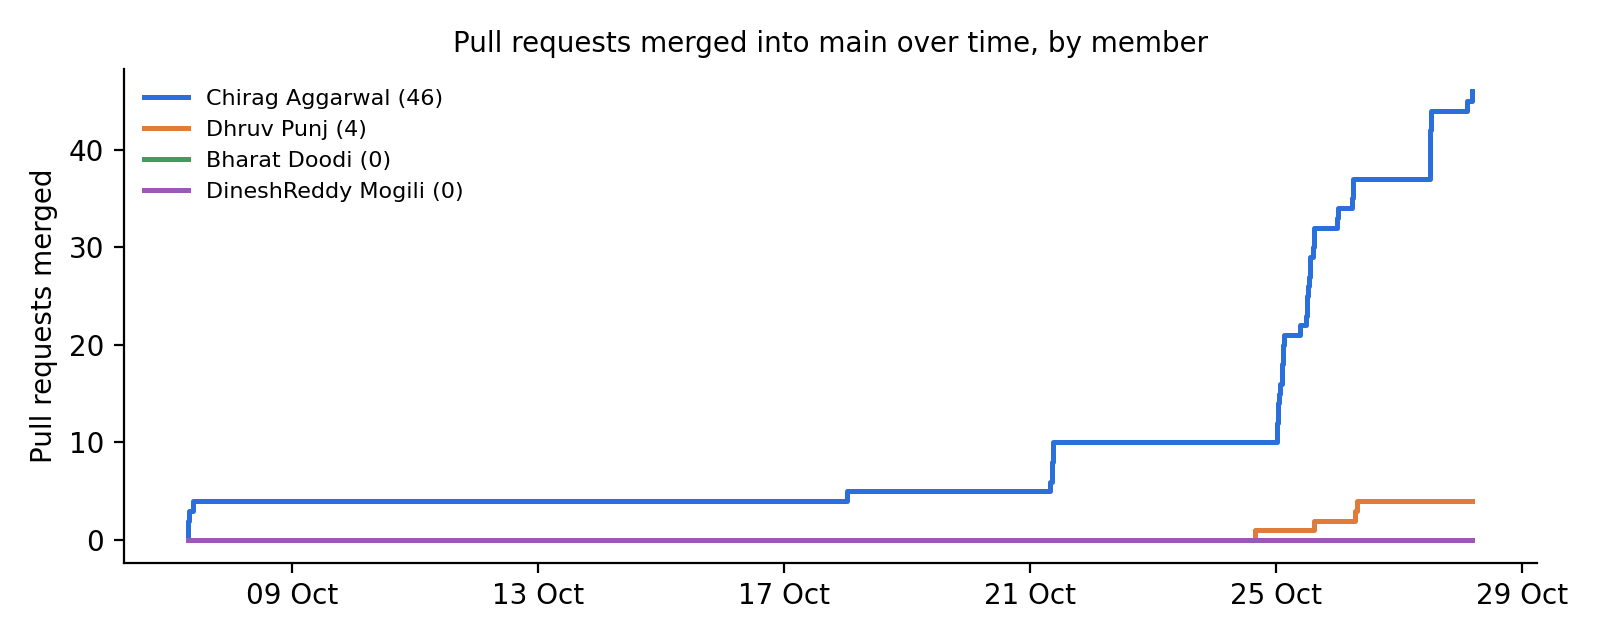
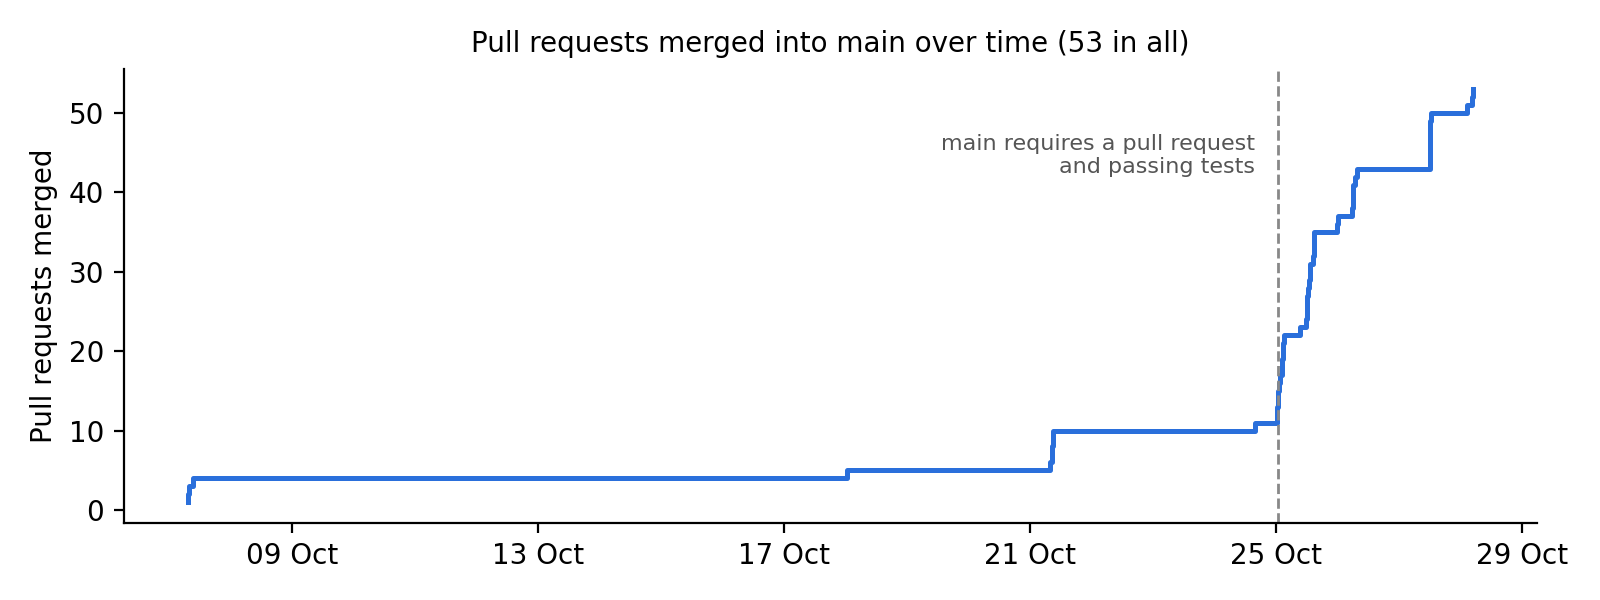
docs(report): show version control use at team level, not split by member
The spec asks for visualisations that show use of version control, not who did what; each member covers their part
in the reflection.

diff --git a/report/version-control/charts.py b/report/version-control/charts.py
@@ -3,9 +3,8 @@
 # dependencies = ["matplotlib==3.10.7"]
 # ///
 """
-Draws the two version control charts in §8 from the git history of main: commits per week by member
-(contributors.png) and pull requests merged into main over time, by member
-(pulls.png). A pull request counts for the member who wrote most of its commits.
+Draws the two version control charts in §8 from the git history of main: commits per week (commits.png) and pull
+requests merged into main over time (pulls.png), with the day main started to require a pull request and passing tests.
 
 Run from the repository root: uv run report/version-control/charts.py
 """
@@ -22,100 +21,59 @@ import matplotlib.dates as dates
 import matplotlib.pyplot as pyplot
 
 HERE = Path(__file__).parent
+COLOUR = '#2a6fdb'
 
-# Each member's git e-mail addresses, as they appear in the history
-MEMBERS = {
-    'Chirag Aggarwal': ['chiragaggarwal5k@gmail.com'],
-    'Dhruv Punj': ['dpunj810@gmail.com', '124335534+DHRUVx22@users.noreply.github.com'],
-    'Bharat Doodi': ['107737002+AKABharat@users.noreply.github.com'],
-    'DineshReddy Mogili': [],
-}
-COLOURS = {
-    'Chirag Aggarwal': '#2a6fdb',
-    'Dhruv Punj': '#e07b39',
-    'Bharat Doodi': '#3a9e5c',
-    'DineshReddy Mogili': '#9b59b6',
-}
+# The day the ruleset on main started requiring a pull request and the three test jobs
+PROTECTED = datetime.fromisoformat('2026-10-25T07:35:17+00:00')
 
 
 def git(*arguments: str) -> str:
     return subprocess.run(['git', *arguments], check=True, capture_output=True, text=True).stdout
 
 
-def member(email: str) -> str | None:
-    for name, emails in MEMBERS.items():
-        if email in emails:
-            return name
-    return None
+def monday(day: date) -> date:
+    return day - timedelta(days=day.weekday())
 
 
-def commits(revisions: str) -> list[tuple[datetime, str]]:
-    found = []
-    for line in git('log', revisions, '--no-merges', '--format=%aI %ae').splitlines():
-        moment, email = line.split(' ', 1)
-        name = member(email)
-        if name:
-            found.append((datetime.fromisoformat(moment), name))
-    return found
-
-
-def monday(moment: datetime) -> date:
-    return moment.date() - timedelta(days=moment.weekday())
-
-
-def contributors() -> None:
-    history = commits('origin/main')
-    first = monday(min(day for day, _ in history))
-    last = monday(max(day for day, _ in history))
+def commits() -> None:
+    days = [date.fromisoformat(day) for day in git('log', 'origin/main', '--no-merges', '--format=%as').split()]
+    first = monday(min(days))
+    last = monday(max(days))
     weeks = [first + timedelta(weeks=index) for index in range((last - first).days // 7 + 1)]
-    counts = Counter((monday(day), name) for day, name in history)
-    totals = Counter(name for _, name in history)
+    counts = Counter(monday(day) for day in days)
 
-    figure, axes = pyplot.subplots(figsize=(8, 3.2))
-    bottom = [0] * len(weeks)
-    for name in MEMBERS:
-        heights = [counts[(week, name)] for week in weeks]
-        axes.bar(weeks, heights, width=5, bottom=bottom, color=COLOURS[name], label=f'{name} ({totals[name]})')
-        bottom = [low + height for low, height in zip(bottom, heights)]
+    figure, axes = pyplot.subplots(figsize=(8, 3))
+    axes.bar(weeks, [counts[week] for week in weeks], width=5, color=COLOUR)
     axes.set_ylabel('Commits')
-    axes.set_title('Commits to main per week, by member (merge commits left out)', fontsize=10)
+    axes.set_title(f'Commits to main per week ({len(days)} in all, merge commits left out)', fontsize=10)
     axes.set_xticks(weeks)
     axes.xaxis.set_major_formatter(dates.DateFormatter('%d %b'))
-    axes.legend(frameon=False, fontsize=8)
     axes.spines[['top', 'right']].set_visible(False)
     figure.tight_layout()
-    figure.savefig(HERE / 'contributors.png', dpi=200)
+    figure.savefig(HERE / 'commits.png', dpi=200)
 
 
 def pulls() -> None:
-    merged: dict[str, list[datetime]] = {name: [] for name in MEMBERS}
-    for line in git('log', 'origin/main', '--first-parent', '--reverse', '--format=%H %cI %P|%ae|%s').splitlines():
-        head, email, subject = line.split('|', 2)
-        commit, moment, *parents = head.split()
-        if len(parents) > 1:
-            branch = commits(f'{commit}^1..{commit}^2')
-            pull = subject.startswith('Merge pull request #') and branch
-            author = Counter(name for _, name in branch).most_common(1)[0][0] if pull else None
-        else:
-            # A squash merge is one commit on main whose subject ends in the pull request's number, e.g. (#27)
-            author = member(email) if re.search(r'\(#\d+\)$', subject) else None
-        if author:
-            merged[author].append(datetime.fromisoformat(moment))
-    first = min(moment for moments in merged.values() for moment in moments)
-    last = max(moment for moments in merged.values() for moment in moments)
+    merged = []
+    for line in git('log', 'origin/main', '--first-parent', '--reverse', '--format=%cI %P|%s').splitlines():
+        head, subject = line.split('|', 1)
+        moment, *parents = head.split()
+        # A merge commit names its pull request; a squash merge ends in its number, e.g. (#27)
+        if subject.startswith('Merge pull request #') or (len(parents) == 1 and re.search(r'\(#\d+\)$', subject)):
+            merged.append(datetime.fromisoformat(moment))
 
-    figure, axes = pyplot.subplots(figsize=(8, 3.2))
-    for name, moments in merged.items():
-        axes.step([first, *moments, last], [0, *range(1, len(moments) + 1), len(moments)], where='post',
-                  color=COLOURS[name], linewidth=1.8, label=f'{name} ({len(moments)})')
+    figure, axes = pyplot.subplots(figsize=(8, 3))
+    axes.step(merged, range(1, len(merged) + 1), where='post', color=COLOUR, linewidth=1.8)
+    axes.axvline(PROTECTED, color='#888888', linestyle='--', linewidth=1)
+    axes.annotate('main requires a pull request\nand passing tests', (PROTECTED, len(merged) * 0.8),
+                  xytext=(-8, 0), textcoords='offset points', ha='right', fontsize=8, color='#555555')
     axes.set_ylabel('Pull requests merged')
-    axes.set_title('Pull requests merged into main over time, by member', fontsize=10)
+    axes.set_title(f'Pull requests merged into main over time ({len(merged)} in all)', fontsize=10)
     axes.xaxis.set_major_formatter(dates.DateFormatter('%d %b'))
-    axes.legend(frameon=False, fontsize=8, loc='upper left')
     axes.spines[['top', 'right']].set_visible(False)
     figure.tight_layout()
     figure.savefig(HERE / 'pulls.png', dpi=200)
 
 
-contributors()
+commits()
 pulls()

diff --git a/report/sections/08-code.md b/report/sections/08-code.md
@@ -153,14 +153,13 @@ Table: Automated tests on main (CI run of 28 Oct)
 
 <!--
 A sentence or two of your own. Facts:
-- 50 pull requests merged into main (plus 2 from Dependabot; #12 was merged into a feature branch instead).
-  16 commits went straight to main without one, the last on 24 Oct; since 25 Oct a ruleset on main requires a pull
-  request and the three test jobs to pass.
-- A pull request counts for whoever wrote most of its commits. Bharat's one commit is GitHub's "Initial commit"
-  that created the team repository; DineshReddy has no commits on main yet.
-- Be honest about the split; your reflection (§12) is the place for how it felt.
+- 53 pull requests merged into main, 2 of them from Dependabot (#12 was merged into a feature branch, so it isn't
+  counted). CI has run the tests on every pull request since 21 Oct, and the report build since 25 Oct.
+- 16 commits went straight to main without a pull request, the last on 24 Oct. Since 25 Oct (the dashed line) a
+  ruleset on main requires a pull request and the three test jobs to pass.
+- Both charts are drawn from the git history by report/version-control/charts.py.
 -->
 
-![Commits to main per week, by member](../version-control/contributors.png){width=100%}
+![Commits to main per week](../version-control/commits.png){width=100%}
 
-![Pull requests merged into main over time, by member](../version-control/pulls.png){width=100%}
+![Pull requests merged into main over time](../version-control/pulls.png){width=100%}

diff --git a/report/genai-prompts.md b/report/genai-prompts.md
@@ -64,5 +64,6 @@ Every prompt went to Claude through Claude Code. Each row keeps the prompts that
 | 57 | 27–28 Oct | Chirag | Chose "§10 Blueprints" to start, then "can u use computer use to do this?", "can u give this task to codex, which does have computer use", "do 1." (Community Edition for the exports) and "keep checking its work" | The Visual Paradigm Instant Reverse run, the Open API plugin that drew the package, component and deployment diagrams on the reversed model, and §10's subheadings, tables and hint comments with the facts from the code |
 | 58 | 28 Oct | Chirag | "lets remove/trim down on more text that is needed in these blueprints pages, we mainly want to show diagrams", "yes choose one and do it", "do fix the facts too if u can" and "make fixes as needed" | Grammar and factual fixes to my §10 prose, shorter §10 tables, and a landscape page for the component diagram |
 | 59 | 28 Oct | Chirag | "yes prepare no. 8" | §8's use case → classes table, the Strategy snippets and test, the test counts and coverage table, the version control charts (`report/version-control/charts.py`), and hint comments with the facts from the code |
+| 60 | 28 Oct | Chirag | "was it mentioned to add this commits graph?" then "yeah lets do that create pr" | Team-level version control charts in §8 (commits per week, pull requests merged over time) instead of the per-member ones |
 
 Table: GenAI prompts, all to Claude (Claude Code)
